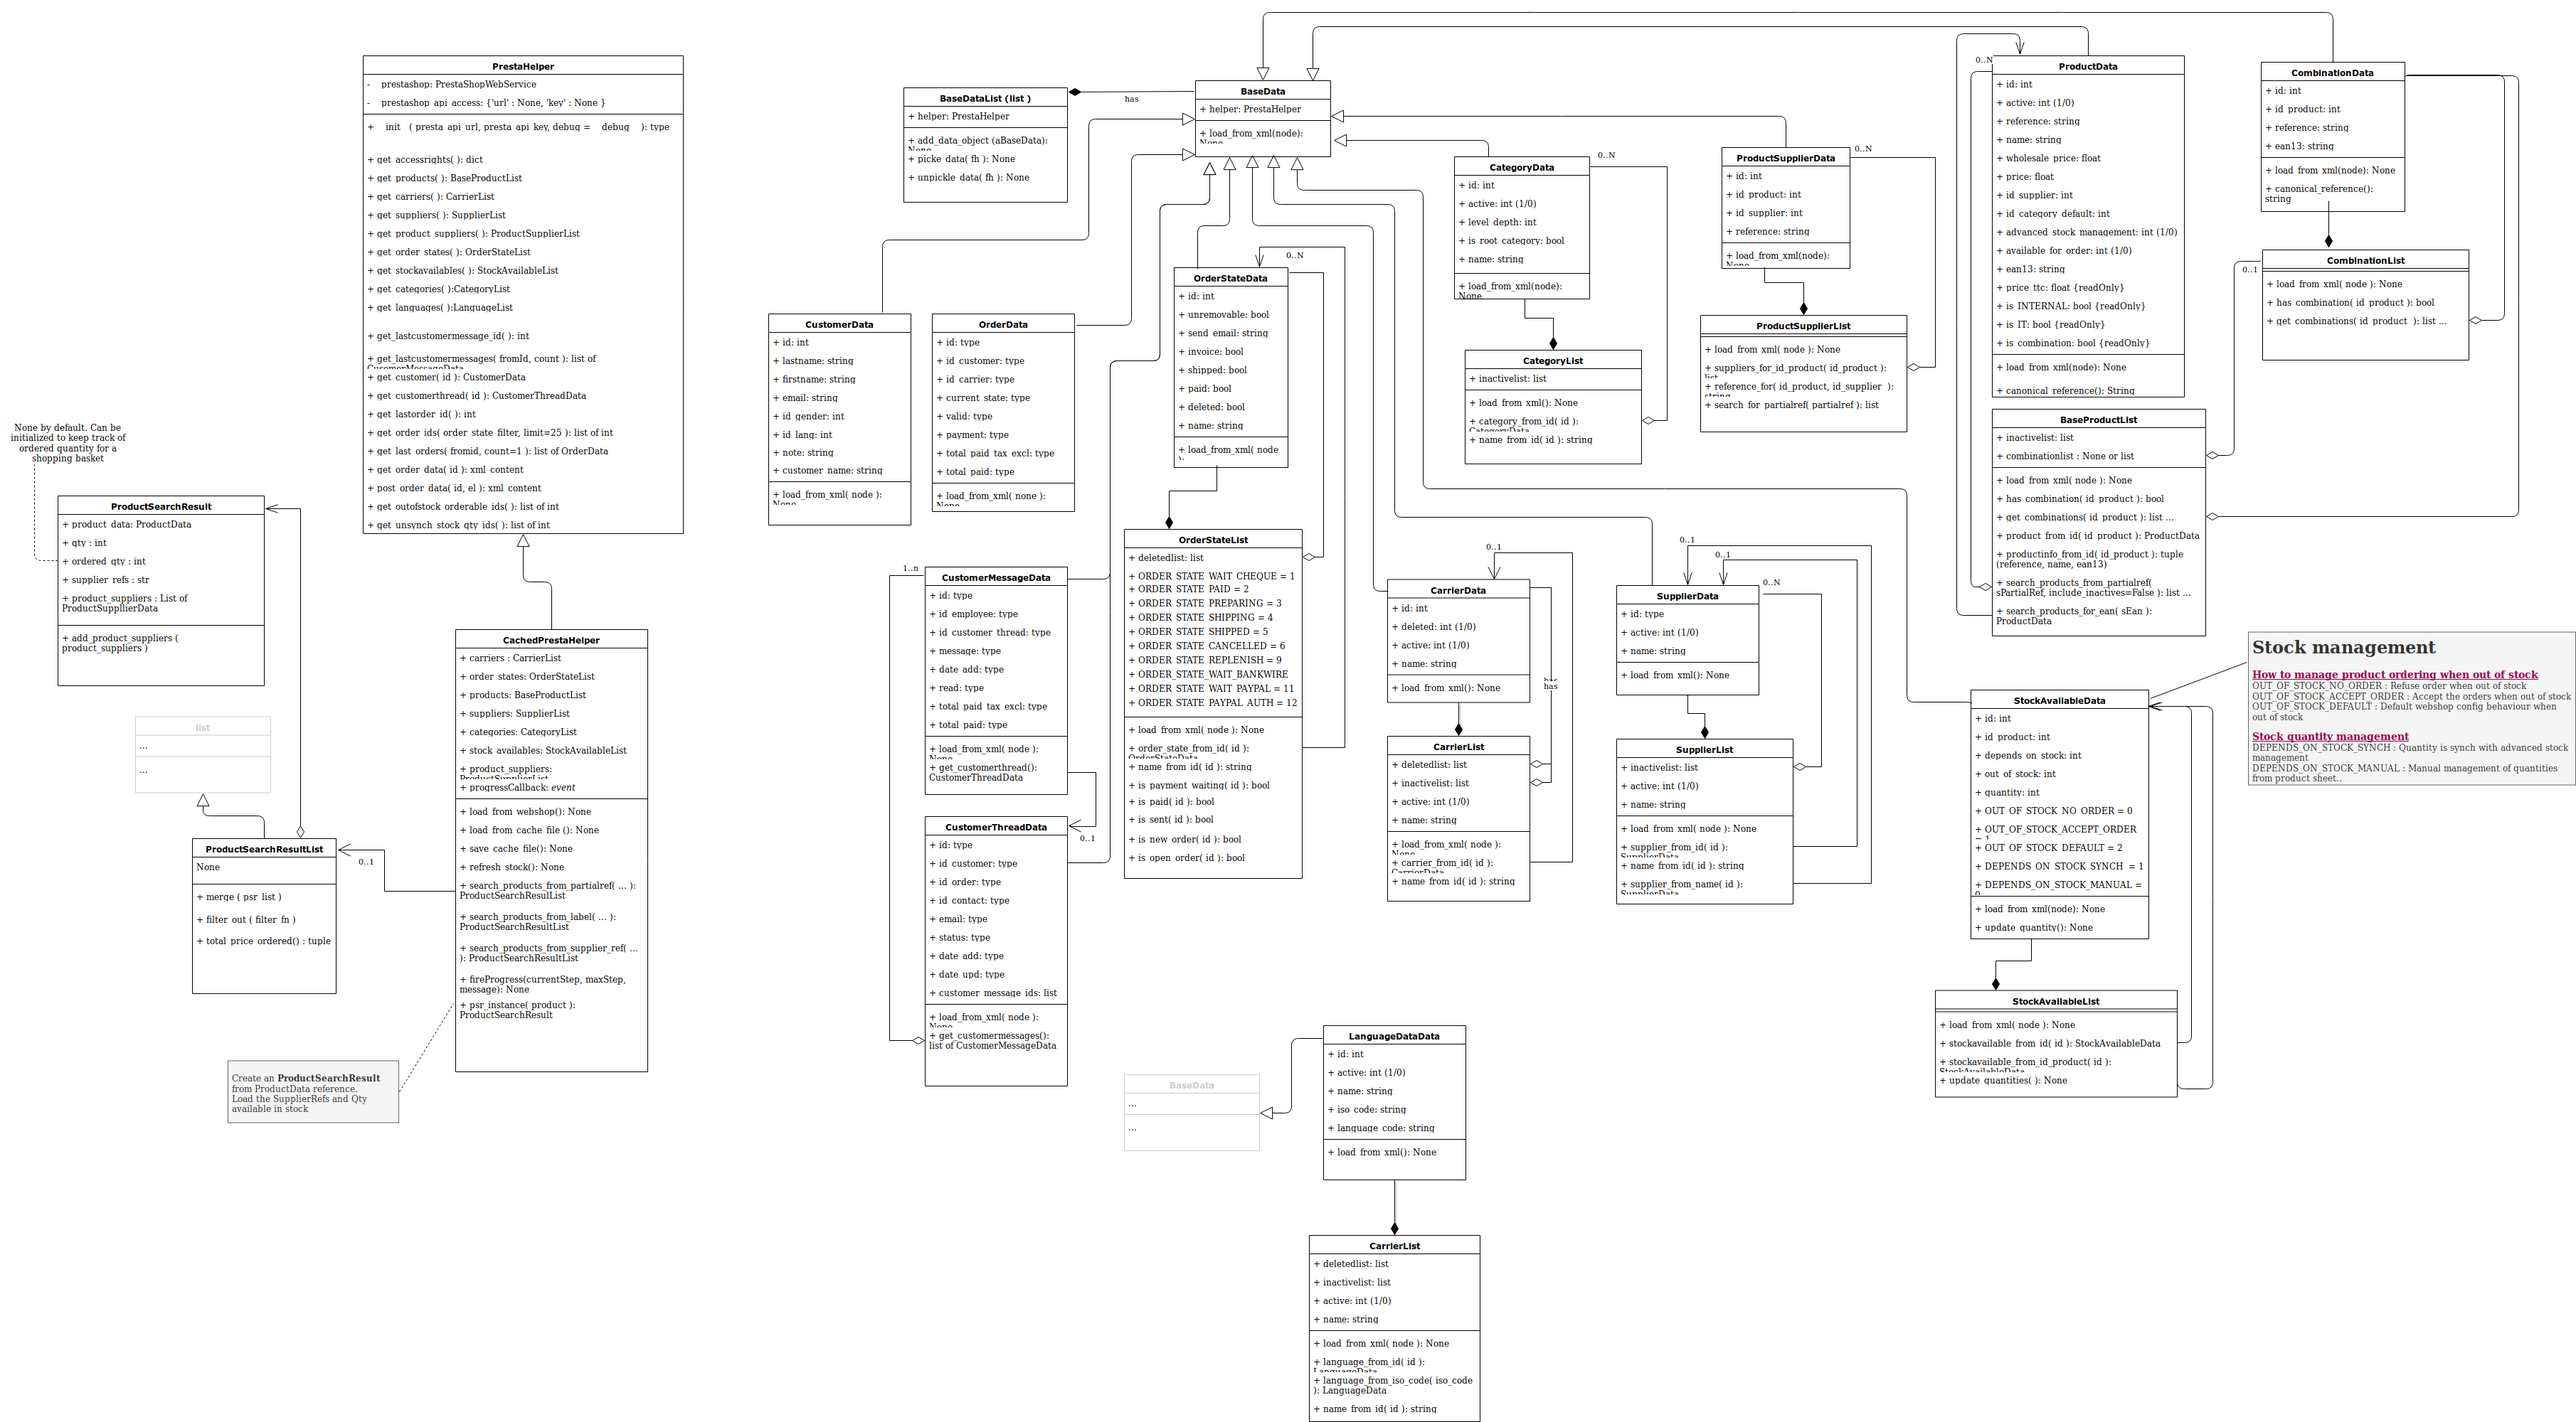
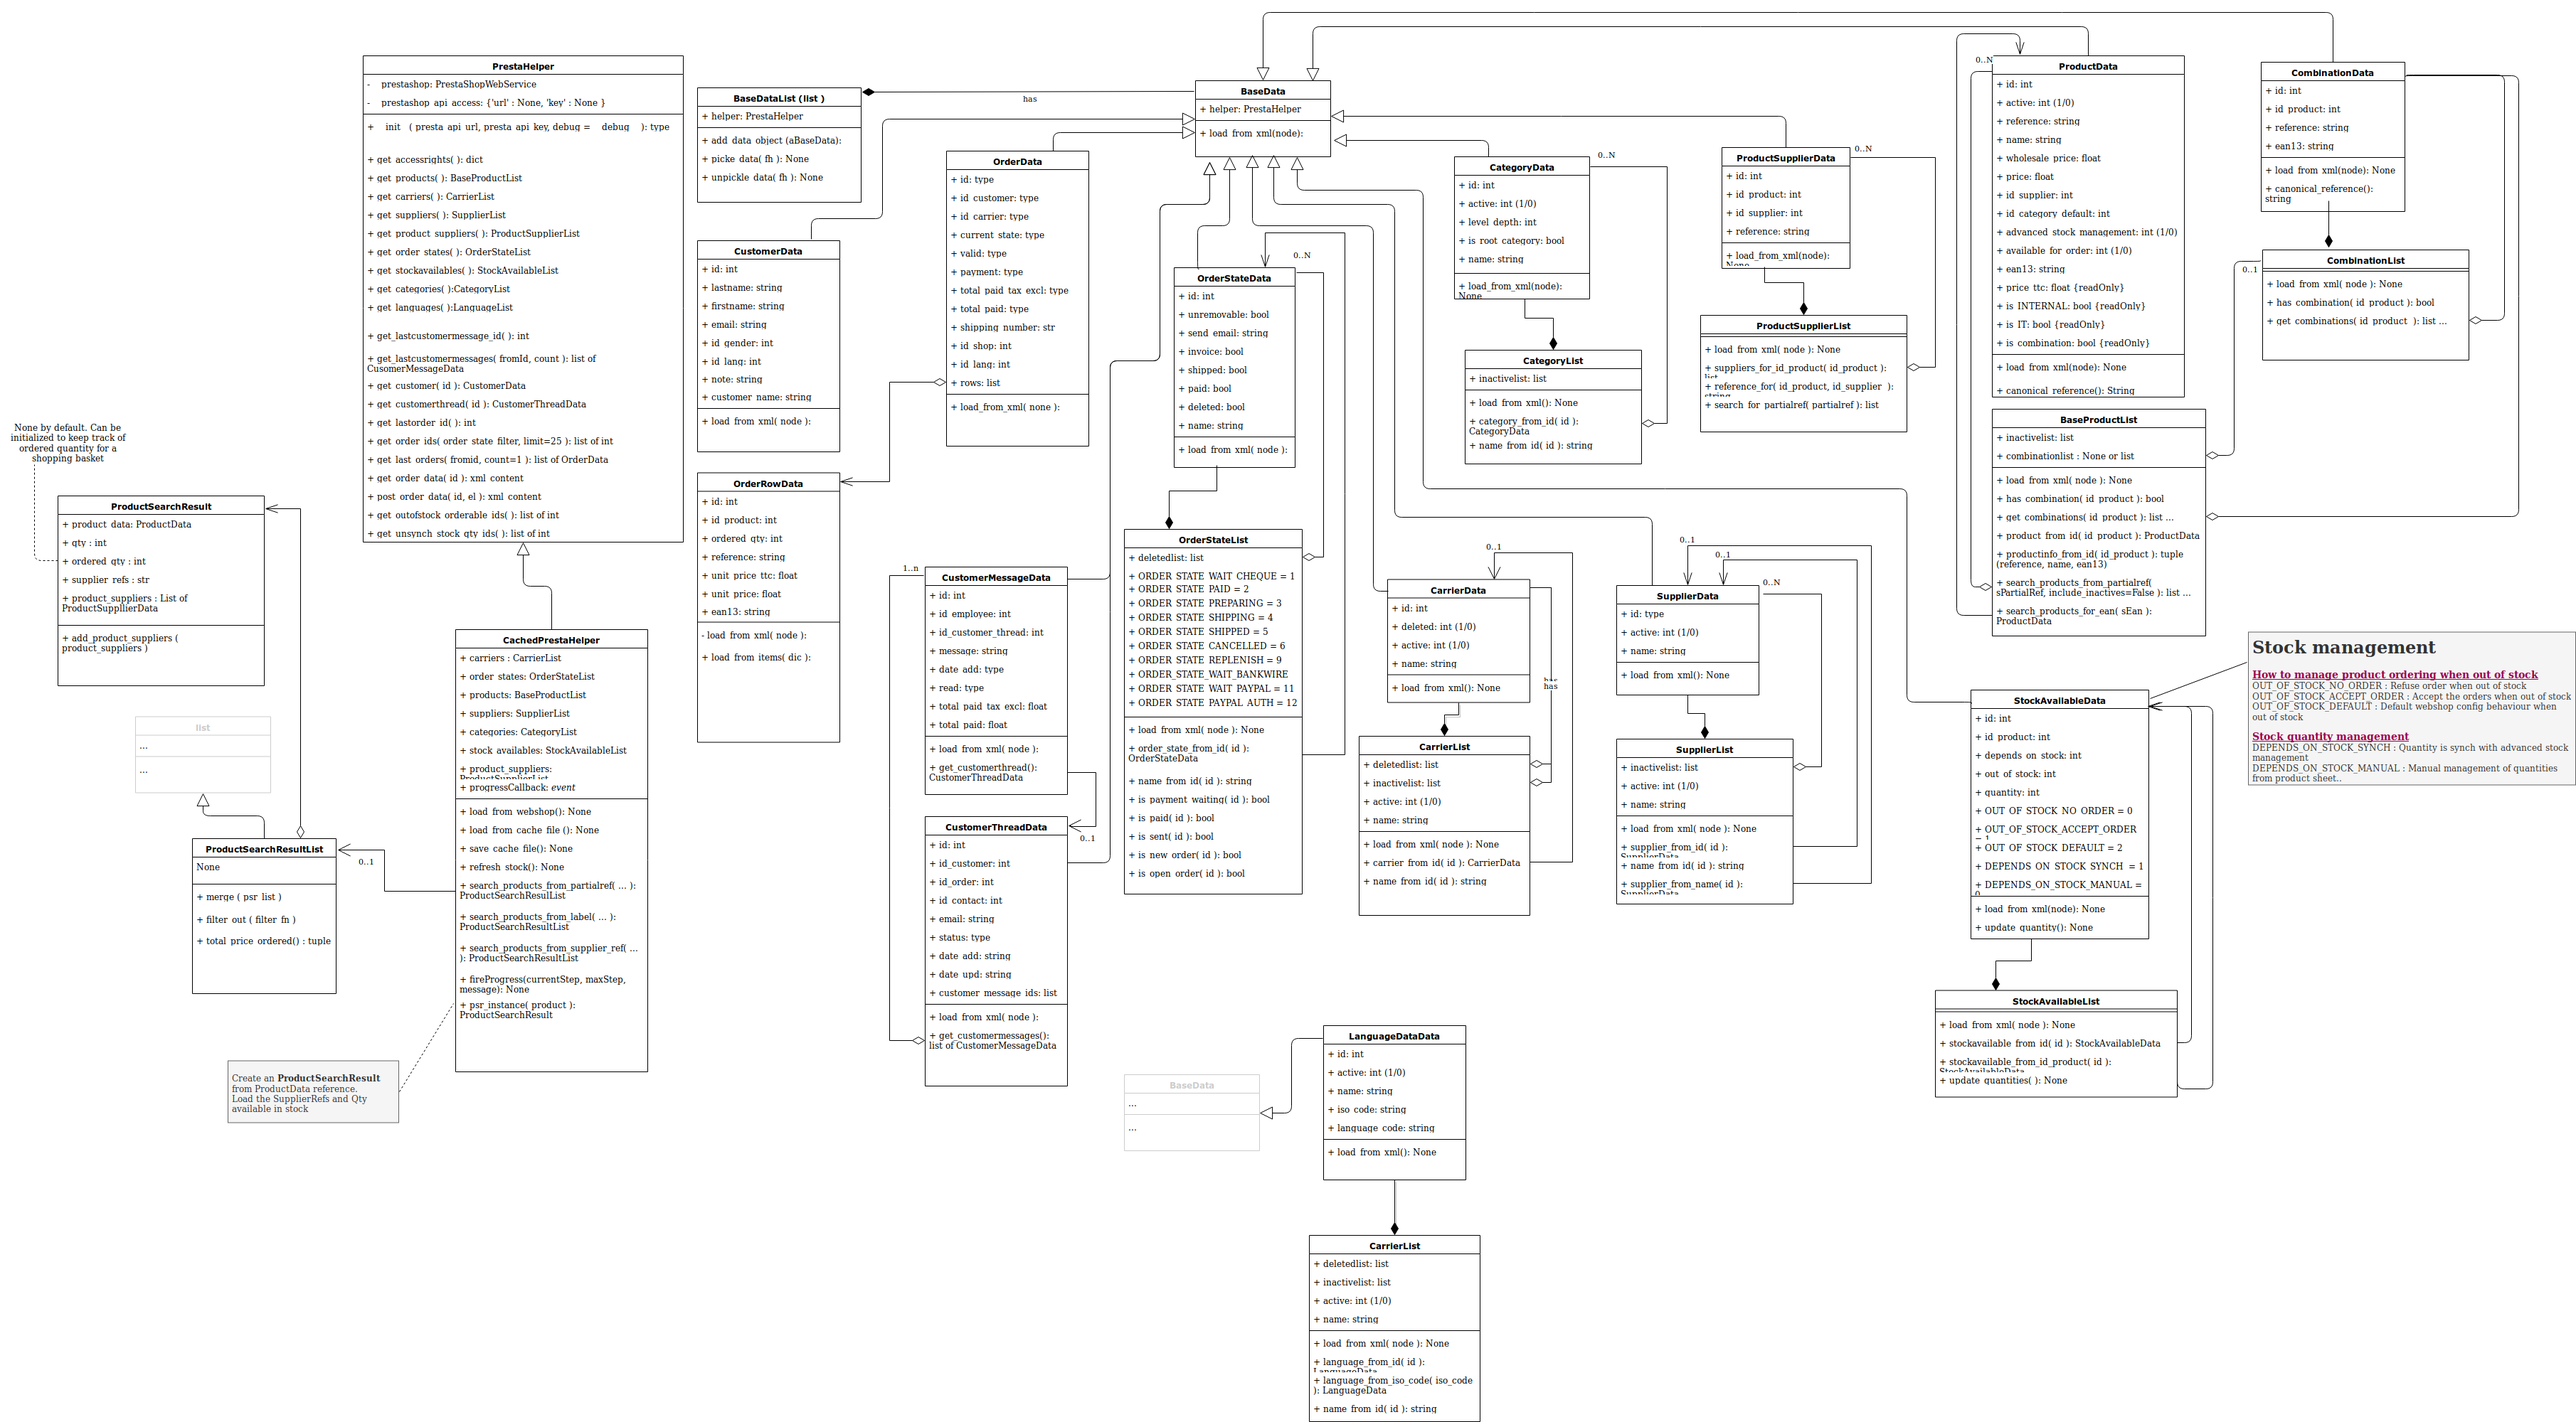
loading order details

diff --git a/prestaapi/prestahelper.py b/prestaapi/prestahelper.py
@@ -319,14 +319,20 @@ class PrestaHelper(object):
 		count  - (default=1) the number of orders to retreive fromId (counting down)
 
 		Returns:
-		A list of OrderData objects
+		A list of OrderData objects or PrestaShopWebServiceError exception in case of empty content
 		"""
 		_result = []
-		for i in range( count ): #  range(1)=0 range(2)=0,1
-			el = self.__prestashop.get( 'orders', fromId-i )
-			order = OrderData( self )
-			order.load_from_xml( el )
-			_result.append( order )
+		try:
+			for i in range( count ): #  range(1)=0 range(2)=0,1
+				el = self.__prestashop.get( 'orders', fromId-i )
+				order = OrderData( self )
+				order.load_from_xml( el )
+				_result.append( order )
+		except PrestaShopWebServiceError as e:
+			if 'response is empty' in str(e): # Order ID is certainly out of range
+				pass # ignore error and return empty list
+			else:
+				raise
 		return _result
 
 	def get_order_data( self, id ):
@@ -869,18 +875,44 @@ class LanguageList( BaseDataList ):
 			return ''
 		return _language_data.name
 
+class OrderRowData( BaseData ):
+	""" Details of rows in the order.
+
+		Remarks: this class is instanciated by OrderData.load_from_xml() """
+	__slots__ = ["id", "id_product", "ordered_qty", "reference", "unit_price_ttc", "unit_price", "ean13" ]
+
+	def load_from_items( self, dic ):
+		# dic is a dictionnary with key=value pairs
+		def _extract( dic, key ):
+			if key in dic:
+				value = dic[key]
+				return value
+			return None
+
+		self.id = _extract(dic,"id")
+		self.id_product = _extract(dic,"product_id")
+		self.ordered_qty = int( _extract(dic,"product_quantity") )
+		self.reference   = _extract(dic,"product_reference")
+		self.unit_price_ttc = float( _extract(dic,"unit_price_tax_incl") ) # TTC
+		self.unit_price     = float( _extract(dic,"unit_price_tax_excl") ) # HTVA
+		self.ean13			= _extract(dic,"product_ean13")
+
+	def __repr__( self ):
+		return "%4s x %-30s (%5s) @ %7.2f htva/p" % ( self.ordered_qty, self.reference, self.id_product, self.unit_price )
+
 class OrderData( BaseData ):
-	""" Constains the data of an order.
+	""" Contains the data of an order.
 
 	This class is supposed to extend with time """
 
-	__slots__ = ["id", "id_customer", "id_carrier", "current_state", "valid", "payment", "total_paid_tax_excl", "total_paid" ]
+	__slots__ = ["id", "id_customer", "id_carrier", "current_state", "valid", "payment", "total_paid_tax_excl", "total_paid", "shipping_number", "id_shop", "id_lang", "rows"]
 
 	def load_from_xml( self, node ):
 		""" Initialise the data of an Order """
 		# print( ElementTree.tostring( node ) )
 		items = etree_to_dict( node )
 		order = items['prestashop']['order']
+
 		# print( order )
 		self.id            = int( order['id'] )
 		self.id_customer   = int( order['id_customer']['#text'] )
@@ -890,6 +922,21 @@ class OrderData( BaseData ):
 		self.payment       = order['payment']
 		self.total_paid_tax_excl = float( order['total_paid_tax_excl' ] )
 		self.total_paid          = float( order['total_paid' ] )
+		if isinstance( order['shipping_number'], dict ) and ('#text' in order['shipping_number']) :
+			self.shipping_number = order['shipping_number']['#text']
+		else:
+			self.shipping_number = ''
+		self.id_shop			 = int( order['id_shop'] )
+		self.id_lang			 = int( order['id_lang']['#text'] )
+		self.rows				 = []
+		_rows = order['associations']['order_rows']['order_row']
+		if isinstance( _rows, dict ): # @ PrestaShop they drop the list of rows if there is only one row in the order!!!
+			_rows = [ _rows ]
+		for items in _rows : # For each row (entry in the list) --> Load row details
+			# Items is a list of node values
+			_row = OrderRowData( self.helper )
+			_row.load_from_items( items )
+			self.rows.append( _row )
 
 class CustomerMessageData( BaseData ):
 	""" Contains the data of a customer messsgae """

diff --git a/order-ship.py b/order-ship.py
@@ -5,7 +5,7 @@
 from prestaapi import PrestaHelper, CachedPrestaHelper, OrderStateList
 from config import Config
 from pprint import pprint
-import logging 
+import logging
 import sys
 import signal
 # debugging
@@ -20,14 +20,16 @@ cmd_nr = raw_input( '#Commande: ' )
 if not cmd_nr.isdigit():
    raise ValueError( '%s is not a number' % cmd_nr )
 
+
 orders = h.get_last_orders( int(cmd_nr), 1 )
-order = orders[0]
-if len( orders ) < 0:
+if len( orders ) <= 0:
     raise ValueError( 'order %s not found' % cmd_nr )
 
+order = orders[0]
 customer = h.get_customer( order.id_customer )
 
 print( '--- Order ID : %i ---' % order.id )
+print( 'Shop ID      : %s' % order.id_shop )
 # print( 'Carrier   ID : %i' % order.id_carrier )
 # print( 'current state: %i' % order.current_state )
 # print( 'Customer  ID : %i' % order.id_customer )
@@ -39,12 +41,11 @@ print( 'valid        : %i' % order.valid )
 print( 'payment      : %s' % order.payment )
 print( 'total HTVA   : %.2f' % order.total_paid_tax_excl )
 print( 'total Paid   : %.2f' % order.total_paid )
+print( 'Shipping Nr  : %s'   % order.shipping_number )
+# Content the order
+for row in order.rows:
+	print( row )
 
-# Extract the xml data
-el_prestashop = h.get_order_data( int(cmd_nr) )
-if el_prestashop == None:
-    print( 'This order does not exists' )
-    exit()
 
 # Update the order current_status
 """order = list( el_prestashop )[0]
@@ -55,12 +56,13 @@ order_current_state[0].text = str( OrderStateList.ORDER_STATE_SHIPPING )
 """
 
 """ Activate error detection
-      http://stackoverflow.com/questions/14457470/prestapyt-error-on-edit 
+      http://stackoverflow.com/questions/14457470/prestapyt-error-on-edit
     A sample of XML to send
-      http://nullege.com/codes/show/src%40p%40r%40prestapyt-HEAD%40examples%40prestapyt_xml.py/22/prestapyt.PrestaShopWebService.edit/python 
+      http://nullege.com/codes/show/src%40p%40r%40prestapyt-HEAD%40examples%40prestapyt_xml.py/22/prestapyt.PrestaShopWebService.edit/python
 """
 # Save the order
-h.post_order_data( int(cmd_nr), el_prestashop )
+print( 'post_order_data() call deactivated' )
+#h.post_order_data( int(cmd_nr), el_prestashop )
 
 #print( order_properties[0].tag )
 #print( order_properties[0].text )
